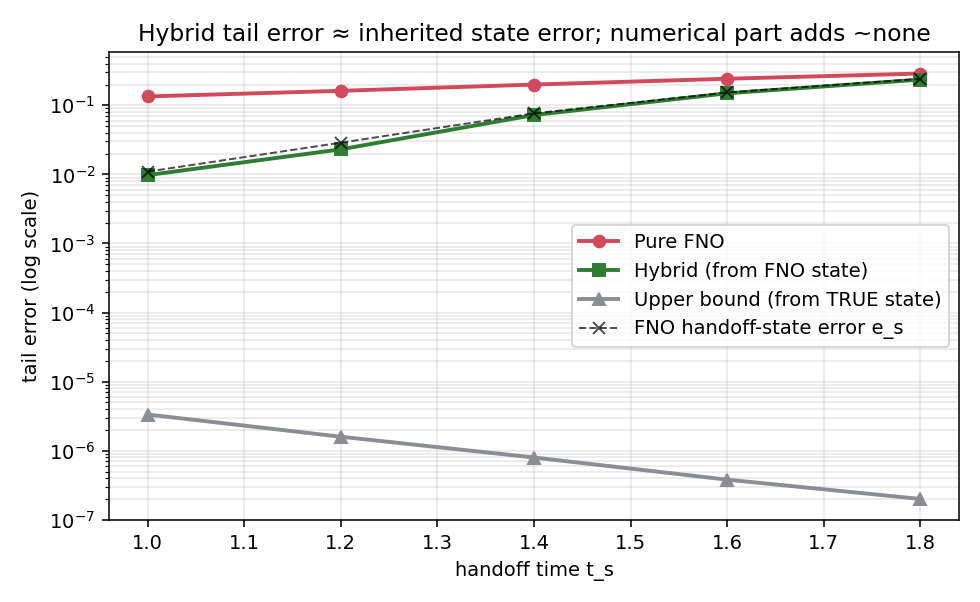
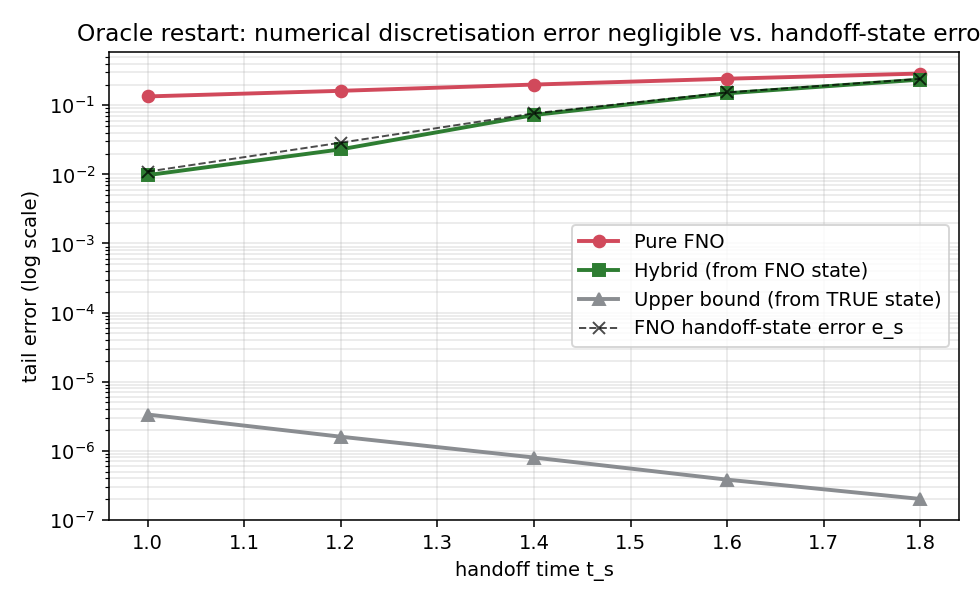
fix(module2): reproducible n=20 (MODULE2_PRED); 20-wave Fig1 numerical curve; align result wording

Changed region(s): [[0.0918, 0.0299, 1.0, 0.0897]]

diff --git a/hybrid_pde/coupling - 214050V/trust_integration.py b/hybrid_pde/coupling - 214050V/trust_integration.py
@@ -1,0 +1,115 @@
+"""
+Trust-triggered hybrid: integration scaffold (Module 2, Coupling).
+
+This wires the trust-detection module (teammate) to the coupling module (this repo).
+It runs offline from predictions (numpy only). Set MODULE2_PRED=results/eval/
+predictions_ext.npz for n=20.
+
+------------------------------------------------------------------------------
+DECISION CONTRACT (agree these field names with the trust module before wiring)
+------------------------------------------------------------------------------
+For each held-out wave the trust module is expected to provide, per time index,
+a decision of the form:
+
+    {
+      "trust_score":  float,   # higher = more reliable
+      "is_reliable":  bool,    # trust_score >= threshold
+      "should_switch": bool,   # True  => hand over to the numerical solver NOW
+      "time_index":   int,     # grid index of this decision
+      "time":         float,   # physical time of this decision
+    }
+
+The coupling module switches at the FIRST index where should_switch is True.
+NOTE on semantics: is_reliable=True means "keep using ML"; should_switch is its
+negation once the score drops below threshold. Do not conflate the two.
+
+In this demonstration the real (reference-free) trust signal is not present, so a
+STAND-IN oracle trigger is used: should_switch fires at the first time the FNO's
+true error exceeds a threshold. This is a placeholder for the teammate's signal
+and is clearly labelled as such; the real trust output plugs into first_switch().
+"""
+import os, json
+import numpy as np
+from restart_spectral import solve_from, nearest_index, TGRID
+
+ROOT = os.path.abspath(os.path.join(os.path.dirname(__file__), "..", ".."))
+PRED = os.environ.get("MODULE2_PRED", os.path.join(ROOT, "results", "eval", "predictions.npz"))
+EPS = 1e-12
+FIXED_TS = 1.4                 # fixed-switch baseline
+TRUST_THRESH = 0.10            # stand-in: switch when (oracle) reliability drops below this
+VIAB_BOUNDARY = 1.47          # measured viability boundary (Section 6d)
+EVAL_LO = 1.0                  # compare all methods on the extrapolation window [1, 2]
+
+
+def rl2_curve(U, Uref):
+    return np.sqrt(((U - Uref) ** 2).sum(-1)) / (np.sqrt((Uref ** 2).sum(-1)) + EPS)
+
+def integ(curve, times):
+    return float(np.trapezoid(curve, times) / (times[-1] - times[0] + EPS))
+
+# ---- the coupling side of the contract ----
+def first_switch(should_switch):
+    """Return the first index where should_switch is True, else None (stay on ML)."""
+    idx = np.where(np.asarray(should_switch))[0]
+    return int(idx[0]) if idx.size else None
+
+def trust_triggered_hybrid(fno_pred, switch_index):
+    """Build the hybrid trajectory given the ML prediction and a switch index."""
+    if switch_index is None:
+        return fno_pred.copy()
+    tail = solve_from(fno_pred[switch_index], switch_index)
+    return np.concatenate([fno_pred[:switch_index], tail], axis=0)
+
+
+def main():
+    d = np.load(PRED)
+    t = d["t"]; true = d["u_true_eval"].astype(float); fno = d["FNO_eval"].astype(float)
+    n, nt, _ = true.shape
+    i1 = nearest_index(EVAL_LO); win = t[i1:]
+    i_fix = nearest_index(FIXED_TS)
+    print(f"trust-integration demo | n={n} waves | window [{EVAL_LO},2] | "
+          f"stand-in oracle trigger at true-error>{TRUST_THRESH:.0%}\n")
+
+    Hfix = solve_from(fno[:, i_fix], i_fix)          # fixed switch, batched
+    rows = []
+    for j in range(n):
+        # STAND-IN trust: should_switch fires when the oracle reliability drops
+        err_t = rl2_curve(fno[j], true[j])            # (nt,) true error over time
+        should = err_t > TRUST_THRESH
+        i_trig = first_switch(should)
+        t_trig = float(t[i_trig]) if i_trig is not None else float('nan')
+
+        pure = integ(rl2_curve(fno[j, i1:], true[j, i1:]), win)
+        fx = np.concatenate([fno[j, :i_fix], Hfix[j]], axis=0)
+        fixed = integ(rl2_curve(fx[i1:], true[j, i1:]), win)
+        tr = trust_triggered_hybrid(fno[j], i_trig)
+        trust = integ(rl2_curve(tr[i1:], true[j, i1:]), win)
+        wl = (nt - i_trig) / nt if i_trig is not None else 0.0     # numerical-workload fraction
+        rows.append(dict(ic=j, trigger_time=t_trig,
+                         inside_viability=bool(i_trig is not None and t_trig <= VIAB_BOUNDARY),
+                         pure_fno=pure, fixed_1p4=fixed, trust_triggered=trust,
+                         numerical_workload_frac=wl))
+
+    def mean(k): return float(np.nanmean([r[k] for r in rows]))
+    print("%-18s %10s" % ("method (mean over waves)", "err[1,2]"))
+    print("-"*30)
+    print("%-18s %10.4f" % ("Pure FNO", mean("pure_fno")))
+    print("%-18s %10.4f" % ("Fixed switch @1.4", mean("fixed_1p4")))
+    print("%-18s %10.4f" % ("Trust-triggered", mean("trust_triggered")))
+    print("%-18s %10s" % ("Full numerical", "~1e-3 (reference; 100% numerical work)"))
+    print("\nmean trigger time: %.3f | mean numerical-workload fraction: %.2f | triggers inside viability window: %d/%d"
+          % (mean("trigger_time"), mean("numerical_workload_frac"),
+             sum(r["inside_viability"] for r in rows), n))
+
+    out = os.path.join(ROOT, "results", "module2", "figures", "trust_integration_results.json")
+    json.dump({"note": "stand-in oracle trigger; real trust output plugs into first_switch()",
+               "n": n, "fixed_switch_time": FIXED_TS, "trust_threshold": TRUST_THRESH,
+               "viability_boundary": VIAB_BOUNDARY, "eval_window": [EVAL_LO, 2.0],
+               "means": {k: mean(k) for k in ["pure_fno","fixed_1p4","trust_triggered",
+                         "trigger_time","numerical_workload_frac"]},
+               "per_ic": rows}, open(out, "w"), indent=2)
+    print("saved", out)
+
+
+if __name__ == "__main__":
+    main()

diff --git a/hybrid_pde/coupling - 214050V/make_figures.py b/hybrid_pde/coupling - 214050V/make_figures.py
@@ -13,7 +13,7 @@ import numpy as np
 from restart_spectral import solve_from, nearest_index, TGRID
 
 ROOT = os.path.abspath(os.path.join(os.path.dirname(__file__), "..", ".."))
-PRED = os.path.join(ROOT, "results", "eval", "predictions.npz")
+PRED = os.environ.get("MODULE2_PRED", os.path.join(ROOT, "results", "eval", "predictions.npz"))
 FIGDIR = os.path.join(ROOT, "results", "module2", "figures")
 CACHE = os.path.join(FIGDIR, "_figure_data.npz")
 SWITCH_TIMES = [1.0, 1.2, 1.4, 1.6, 1.8]
@@ -100,7 +100,7 @@ def compute():
               (SWITCH_TIMES[s], bmean[s], hmean[s], "VIABLE" if viable[s] else "not viable"))
     print("   viability boundary (hybrid tail hits %.0f%%): t_s ~ %s   [FNO reliable horizon = 1.457]"
           % (E_MAX*100, ("%.2f" % boundary) if boundary else "n/a"))
-    summary = {"status": "PRELIMINARY -- not final thesis results",
+    summary = {"status": f"n={n_ic} held-out waves",
                "viability_rule": {"benefit_min": 0.10, "abs_error_max": E_MAX,
                                   "boundary_t_s": boundary, "fno_reliable_horizon": 1.457},
                "n_ic": int(n_ic), "handoff": "raw FNO state (no filtering)",
@@ -172,7 +172,7 @@ def plot():
     ax.plot(ts, es.mean(1),  "x--", color="k", lw=1, alpha=0.7, label="FNO handoff-state error e_s")
     ax.set_yscale("log")
     ax.set(xlabel="handoff time t_s", ylabel="tail error (log scale)",
-           title="Hybrid tail error ≈ inherited state error; numerical part adds ~none")
+           title="Oracle restart: numerical discretisation error negligible vs. handoff-state error")
     ax.legend(); ax.grid(alpha=0.3, which="both"); fig.tight_layout()
     fig.savefig(os.path.join(FIGDIR, "fig4_hybrid_vs_upper_bound.png"), dpi=140); plt.close(fig)
 

diff --git a/hybrid_pde/coupling - 214050V/filtering_ablation.py b/hybrid_pde/coupling - 214050V/filtering_ablation.py
@@ -8,7 +8,7 @@ import os, numpy as np
 from restart_spectral import solve_from, nearest_index, TGRID, NX
 
 ROOT = os.path.abspath(os.path.join(os.path.dirname(__file__), "..", ".."))
-PRED = os.path.join(ROOT, "results", "eval", "predictions.npz")
+PRED = os.environ.get("MODULE2_PRED", os.path.join(ROOT, "results", "eval", "predictions.npz"))
 EPS = 1e-12
 BAND = NX // 3                      # resolved band (dealias): modes 0..170
 FILTERS = [("raw", 1.00), ("keep90%", 0.90), ("keep75%", 0.75), ("keep50%", 0.50)]
@@ -27,6 +27,7 @@ def integ(c, tt): return np.trapezoid(c, tt)/(tt[-1]-tt[0]+EPS)
 d = np.load(PRED)
 t = d["t"]; Utrue = d["u_true_eval"].astype(np.float64); Ufno = d["FNO_eval"].astype(np.float64)
 n = Utrue.shape[0]
+print(f"[filtering ablation on n={n} waves - set MODULE2_PRED=results/eval/predictions_ext.npz for n=20]")
 print("Phase 3 - handoff filtering ablation (mean hybrid tail error over %d waves)\n" % n)
 print("%5s  %-8s  %-12s  %-14s" % ("t_s","filter","hybrid_tail","state_change"))
 print("-"*46)
